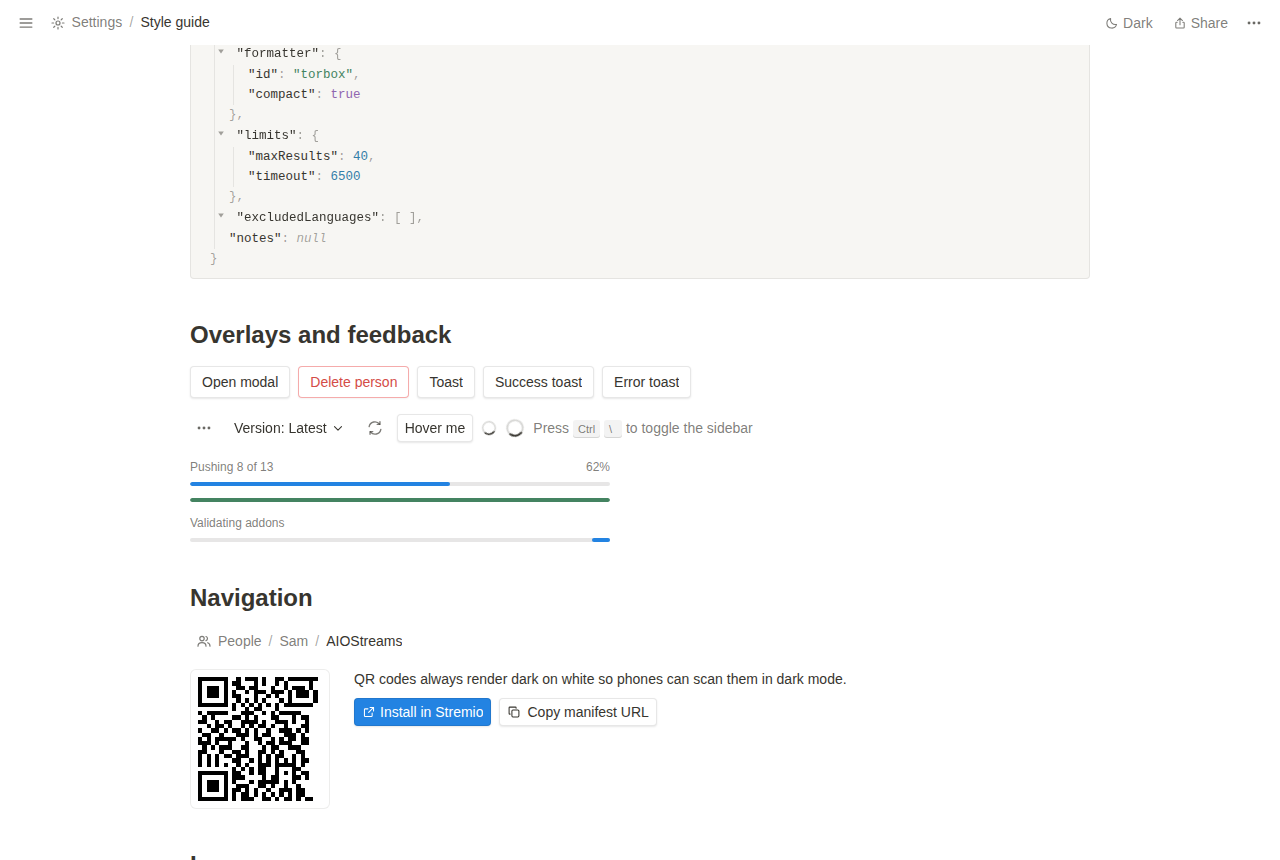
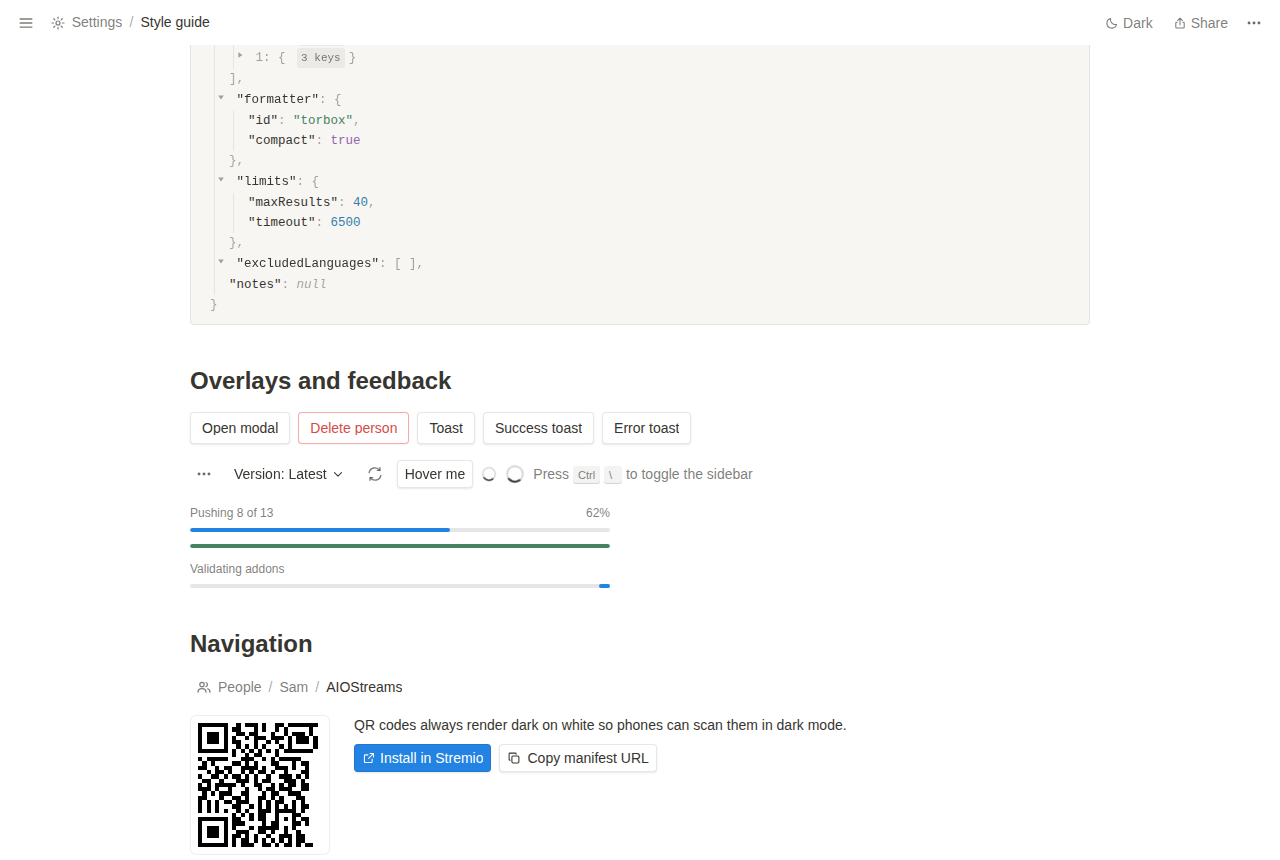
Add Notion-style design system, app shell and auth pages
Claude-Session: https://claude.ai/code/session_01HDyNgbutWvbwbgLP9aAZDM

diff --git a/manager/src/lib/ui/JsonNode.svelte b/manager/src/lib/ui/JsonNode.svelte
@@ -96,7 +96,7 @@
 		min-height: 20px;
 		padding-left: 14px;
 		white-space: pre-wrap;
-		word-break: break-all;
+		overflow-wrap: anywhere;
 	}
 	.toggle {
 		position: relative;
@@ -144,6 +144,8 @@
 		margin-right: 1ch;
 	}
 	.summary {
+		display: inline-block;
+		white-space: nowrap;
 		margin: 0 4px;
 		padding: 0 4px;
 		border-radius: var(--radius-sm);

diff --git a/manager/src/routes/(app)/styleguide/+page.svelte b/manager/src/routes/(app)/styleguide/+page.svelte
@@ -503,7 +503,7 @@
 				<CodeEditor label="Invalid example" bind:value={badCode} minLines={4} />
 				<div>
 					<p class="label">Rendered preview (secrets masked)</p>
-					<JsonView value={sample} />
+					<JsonView value={sample} expandDepth={3} />
 				</div>
 			</div>
 		</section>
